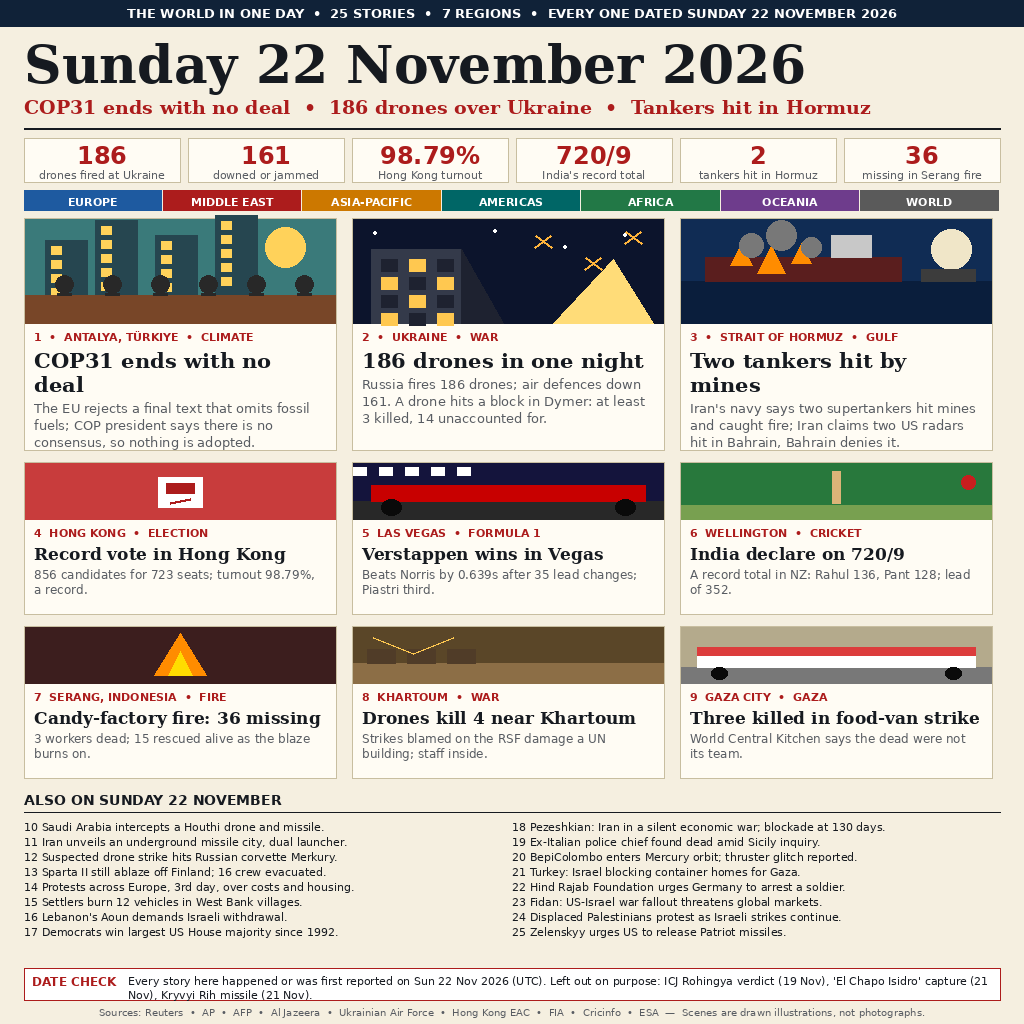
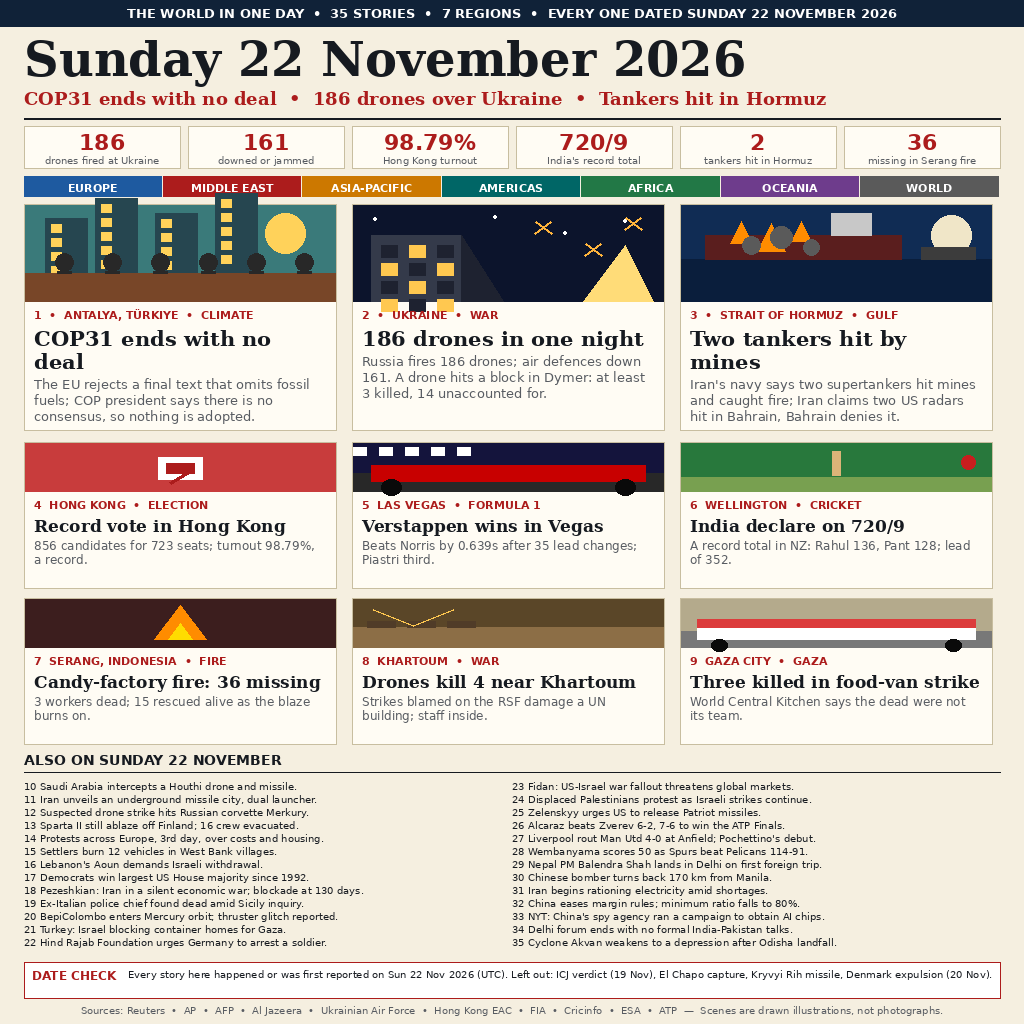
Front page v3: 35 stories, sport + Asia-Pacific breadth

diff --git a/build_image.py b/build_image.py
@@ -2,15 +2,16 @@
 """Draw the 22 November 2026 world-news front page, 1024x1024 PNG.
 
 Newspaper style, like the entries leading this bounty's leaderboard:
-25 stories, 7 regions, every one happened or first reported on
+35 stories, 7 regions, every one happened or first reported on
 Sunday 22 November 2026 (UTC), with a date check at the foot.
 Stories verified against AP / Reuters / AFP / Al Jazeera, the
-Ukrainian Air Force, Hong Kong EAC, FIA, Cricinfo and ESA.
+Ukrainian Air Force, Hong Kong EAC, FIA, Cricinfo, ESA and ATP.
 
 Deliberately LEFT OUT (earlier days, however big):
 ICJ Rohingya verdict Thu 19 Nov; 'El Chapo Isidro' capture Fri 21 Nov;
-Kryvyi Rih missile Sat 21 Nov; Sparta II drone strike Sat 21 Nov
-(its fire still burning on Sunday is in the list, dated as such).
+Kryvyi Rih missile Sat 21 Nov; Denmark expels Russian attache Fri 20 Nov;
+Sparta II drone strike Sat 21 Nov (its fire still burning on Sunday
+is in the list, dated as such).
 
 Deterministic: solid colours + DejaVu fonts only, no randomness,
 no network, no timestamps. Re-running writes identical bytes.
@@ -63,14 +64,14 @@ def centre(text, fnt, y, fill, x0=0, x1=W):
 
 # ---------- top bar ----------
 d.rectangle([0, 0, W, 26], fill=NAVY)
-centre("THE WORLD IN ONE DAY  •  25 STORIES  •  7 REGIONS  •  EVERY ONE DATED SUNDAY 22 NOVEMBER 2026",
+centre("THE WORLD IN ONE DAY  •  35 STORIES  •  7 REGIONS  •  EVERY ONE DATED SUNDAY 22 NOVEMBER 2026",
        F_SANSB(13), 5, (255, 255, 255))
 
 # ---------- masthead ----------
-d.text((24, 34), "Sunday 22 November 2026", font=F_SERIF(52), fill=INK)
-d.text((24, 96), "COP31 ends with no deal  •  186 drones over Ukraine  •  Tankers hit in Hormuz",
-       font=F_SERIF(19), fill=RED)
-d.line([24, 128, W - 24, 128], fill=INK, width=2)
+d.text((24, 30), "Sunday 22 November 2026", font=F_SERIF(48), fill=INK)
+d.text((24, 88), "COP31 ends with no deal  •  186 drones over Ukraine  •  Tankers hit in Hormuz",
+       font=F_SERIF(18), fill=RED)
+d.line([24, 118, W - 24, 118], fill=INK, width=2)
 
 # ---------- numbers strip ----------
 nums = [("186", "drones fired at Ukraine"),
@@ -82,9 +83,9 @@ nums = [("186", "drones fired at Ukraine"),
 x = 24
 bw = (W - 48 - 5 * 8) / 6
 for n, lab in nums:
-    d.rectangle([x, 138, x + bw, 182], fill=PAPER, outline=(200, 190, 160))
-    centre(n, F_SANSB(24), 141, RED, x, x + bw)
-    centre(lab, F_SANS(11), 168, GREY, x, x + bw)
+    d.rectangle([x, 126, x + bw, 168], fill=PAPER, outline=(200, 190, 160))
+    centre(n, F_SANSB(22), 129, RED, x, x + bw)
+    centre(lab, F_SANS(10), 154, GREY, x, x + bw)
     x += bw + 8
 
 # ---------- region bar ----------
@@ -94,8 +95,8 @@ regs = [("EUROPE", (30, 90, 160)), ("MIDDLE EAST", RED), ("ASIA-PACIFIC", (204, 
 x = 24
 rw = (W - 48) / 7
 for name, col in regs:
-    d.rectangle([x, 190, x + rw - 2, 210], fill=col)
-    centre(name, F_SANSB(11), 195, (255, 255, 255), x, x + rw - 2)
+    d.rectangle([x, 176, x + rw - 2, 196], fill=col)
+    centre(name, F_SANSB(11), 181, (255, 255, 255), x, x + rw - 2)
     x += rw
 
 # ---------- scenes (flat, drawn in code) ----------
@@ -127,7 +128,7 @@ def scene_ukraine(x, y, w, h):
     for dx, dy in [(190, 22), (240, 44), (280, 18)]:
         d.line([x + dx - 8, y + dy - 6, x + dx + 8, y + dy + 6], fill=(255, 180, 60), width=2)
         d.line([x + dx - 8, y + dy + 6, x + dx + 8, y + dy - 6], fill=(255, 180, 60), width=2)
-    d.polygon([(x + 200, y + h), (x + 300, y + h), (x + 260, y + 40)], fill=(255, 220, 120))
+    d.polygon([(x + 230, y + h), (x + 300, y + h), (x + 272, y + 40)], fill=(255, 220, 120))
 
 def scene_hormuz(x, y, w, h):
     d.rectangle([x, y, x + w, y + h], fill=(16, 44, 84))
@@ -140,8 +141,8 @@ def scene_hormuz(x, y, w, h):
     for fx, fy, fs in [(60, 58, 22), (90, 50, 28), (120, 60, 20)]:
         d.polygon([(x + fx, y + h - fy - fs), (x + fx - fs // 2, y + h - fy),
                    (x + fx + fs // 2, y + h - fy)], fill=(255, 140, 0))
-    for sx, sy, sr in [(70, 26, 12), (100, 16, 15), (130, 28, 10)]:
-        d.ellipse([x + sx - sr, y + sy - sr, x + sx + sr, y + sy + sr], fill=(120, 120, 120))
+    for sx, sy, sr in [(70, 40, 9), (100, 32, 11), (130, 42, 8)]:
+        d.ellipse([x + sx - sr, y + sy - sr, x + sx + sr, y + sy + sr], fill=(90, 90, 90))
     # second tanker, small
     d.rectangle([x + 240, y + h - 54, x + w - 16, y + h - 42], fill=(60, 60, 60))
 
@@ -191,14 +192,14 @@ top = [
     ("3  •  STRAIT OF HORMUZ  •  GULF", "Two tankers hit by mines",
      "Iran's navy says two supertankers hit mines and caught fire; Iran claims two US radars hit in Bahrain, Bahrain denies it.", scene_hormuz),
 ]
-px, py, pw, ph, pgap = 24, 218, 312, 232, 16
+px, py, pw, ph, pgap = 24, 204, 312, 226, 16
 for i, (kick, head, body, scene) in enumerate(top):
     x = px + i * (pw + pgap)
     d.rectangle([x, py, x + pw, py + ph], fill=PAPER, outline=(200, 190, 160))
-    scene(x + 1, py + 1, pw - 2, 104)
-    d.text((x + 10, py + 112), kick, font=F_SANSB(11), fill=RED)
-    yy = para(head, F_SERIF(21), x + 10, py + 130, pw - 20, INK, lh=24)
-    para(body, F_SANS(13), x + 10, yy + 4, pw - 20, GREY, lh=17)
+    scene(x + 1, py + 1, pw - 2, 96)
+    d.text((x + 10, py + 104), kick, font=F_SANSB(11), fill=RED)
+    yy = para(head, F_SERIF(21), x + 10, py + 122, pw - 20, INK, lh=23)
+    para(body, F_SANS(13), x + 10, yy + 4, pw - 20, GREY, lh=16)
 
 # ---------- second row: 6 cards ----------
 cards = [
@@ -215,18 +216,18 @@ cards = [
     ("9  GAZA CITY  •  GAZA", "Three killed in food-van strike",
      "World Central Kitchen says the dead were not its team.", "gaza"),
 ]
-cx, cy, cw, ch = 24, 462, 312, 152
+cx, cy, cw, ch = 24, 442, 312, 146
 for i, (kick, head, body, kind) in enumerate(cards):
     x = cx + (i % 3) * (cw + pgap)
-    y = cy + (i // 3) * (ch + 12)
+    y = cy + (i // 3) * (ch + 10)
     d.rectangle([x, y, x + cw, y + ch], fill=PAPER, outline=(200, 190, 160))
-    scene_mini(x + 1, y + 1, cw - 2, 56, kind)
-    d.text((x + 10, y + 64), kick, font=F_SANSB(11), fill=RED)
-    yy = para(head, F_SERIF(17), x + 10, y + 82, cw - 20, INK, lh=20)
-    para(body, F_SANS(12), x + 10, yy + 3, cw - 20, GREY, lh=15)
+    scene_mini(x + 1, y + 1, cw - 2, 48, kind)
+    d.text((x + 10, y + 56), kick, font=F_SANSB(11), fill=RED)
+    yy = para(head, F_SERIF(17), x + 10, y + 74, cw - 20, INK, lh=19)
+    para(body, F_SANS(12), x + 10, yy + 3, cw - 20, GREY, lh=14)
 
 # ---------- also list ----------
-ly = 792
+ly = 752
 d.text((24, ly), "ALSO ON SUNDAY 22 NOVEMBER", font=F_SANSB(14), fill=INK)
 d.line([24, ly + 20, W - 24, ly + 20], fill=INK, width=1)
 also_left = [
@@ -238,31 +239,41 @@ also_left = [
     "15  Settlers burn 12 vehicles in West Bank villages.",
     "16  Lebanon's Aoun demands Israeli withdrawal.",
     "17  Democrats win largest US House majority since 1992.",
-]
-also_right = [
     "18  Pezeshkian: Iran in a silent economic war; blockade at 130 days.",
     "19  Ex-Italian police chief found dead amid Sicily inquiry.",
     "20  BepiColombo enters Mercury orbit; thruster glitch reported.",
     "21  Turkey: Israel blocking container homes for Gaza.",
     "22  Hind Rajab Foundation urges Germany to arrest a soldier.",
+]
+also_right = [
     "23  Fidan: US-Israel war fallout threatens global markets.",
     "24  Displaced Palestinians protest as Israeli strikes continue.",
     "25  Zelenskyy urges US to release Patriot missiles.",
+    "26  Alcaraz beats Zverev 6-2, 7-6 to win the ATP Finals.",
+    "27  Liverpool rout Man Utd 4-0 at Anfield; Pochettino's debut.",
+    "28  Wembanyama scores 50 as Spurs beat Pelicans 114-91.",
+    "29  Nepal PM Balendra Shah lands in Delhi on first foreign trip.",
+    "30  Chinese bomber turns back 170 km from Manila.",
+    "31  Iran begins rationing electricity amid shortages.",
+    "32  China eases margin rules; minimum ratio falls to 80%.",
+    "33  NYT: China's spy agency ran a campaign to obtain AI chips.",
+    "34  Delhi forum ends with no formal India-Pakistan talks.",
+    "35  Cyclone Akvan weakens to a depression after Odisha landfall.",
 ]
 y = ly + 28
 for t in also_left:
-    y = para(t, F_SANS(11), 24, y, 470, INK, lh=14) + 1
+    y = para(t, F_SANS(10), 24, y, 470, INK, lh=12) + 1
 y = ly + 28
 for t in also_right:
-    y = para(t, F_SANS(11), 512, y, 488, INK, lh=14) + 1
+    y = para(t, F_SANS(10), 512, y, 488, INK, lh=12) + 1
 
 # ---------- date check + footer ----------
-d.rectangle([24, 968, W - 24, 1000], fill=(255, 255, 255), outline=RED)
-d.text((32, 974), "DATE CHECK", font=F_SANSB(12), fill=RED)
-para("Every story here happened or was first reported on Sun 22 Nov 2026 (UTC). Left out on purpose: ICJ Rohingya verdict (19 Nov), 'El Chapo Isidro' capture (21 Nov), Kryvyi Rih missile (21 Nov).",
-     F_SANS(11), 128, 974, W - 152, INK, lh=14)
-centre("Sources: Reuters  •  AP  •  AFP  •  Al Jazeera  •  Ukrainian Air Force  •  Hong Kong EAC  •  FIA  •  Cricinfo  •  ESA  —  Scenes are drawn illustrations, not photographs.",
-       F_SANS(10), 1006, GREY)
+d.rectangle([24, 962, W - 24, 998], fill=(255, 255, 255), outline=RED)
+d.text((32, 968), "DATE CHECK", font=F_SANSB(12), fill=RED)
+para("Every story here happened or was first reported on Sun 22 Nov 2026 (UTC). Left out: ICJ verdict (19 Nov), El Chapo capture, Kryvyi Rih missile, Denmark expulsion (20 Nov).",
+     F_SANS(10), 128, 968, W - 152, INK, lh=13)
+centre("Sources: Reuters  •  AP  •  AFP  •  Al Jazeera  •  Ukrainian Air Force  •  Hong Kong EAC  •  FIA  •  Cricinfo  •  ESA  •  ATP  —  Scenes are drawn illustrations, not photographs.",
+       F_SANS(10), 1004, GREY)
 
 img.save("entry.png", format="PNG", optimize=True)
 print("saved entry.png", img.size)

diff --git a/README.md b/README.md
@@ -10,7 +10,7 @@ Sum up 22 November's world news in one image. Built by an AI agent for make.fun'
 
 A 1024×1024 newspaper front page, drawn programmatically with
 Pillow (flat scenes drawn in code, so every word stays crisp and
-legible — no AI-generated garbled text): 25 stories, 7 regions.
+legible — no AI-generated garbled text): 35 stories, 7 regions.
 
 Sunday 22 November 2026, as reported that day (AP / Reuters / AFP /
 Al Jazeera, Ukrainian Air Force, Hong Kong EAC, FIA, Cricinfo, ESA):
@@ -27,7 +27,10 @@ Al Jazeera, Ukrainian Air Force, Hong Kong EAC, FIA, Cricinfo, ESA):
   kill 4 near Khartoum; three killed in a Gaza food-van strike —
   plus 16 more stories in the “Also on Sunday” list, from the
   Merkury drone strike in Benghazi to BepiColombo entering
-  Mercury orbit.
+  Mercury orbit — and 10 more in v3: Alcaraz winning the ATP
+  Finals, Liverpool routing Man Utd 4-0, Wembanyama's 50 points,
+  Nepal's PM landing in Delhi, a Chinese bomber turning back
+  from Manila, Iran rationing electricity, and Cyclone Akvan.
 
 Date check, printed on the page: every story happened or was
 first reported on Sun 22 Nov 2026 (UTC). Left out on purpose:
